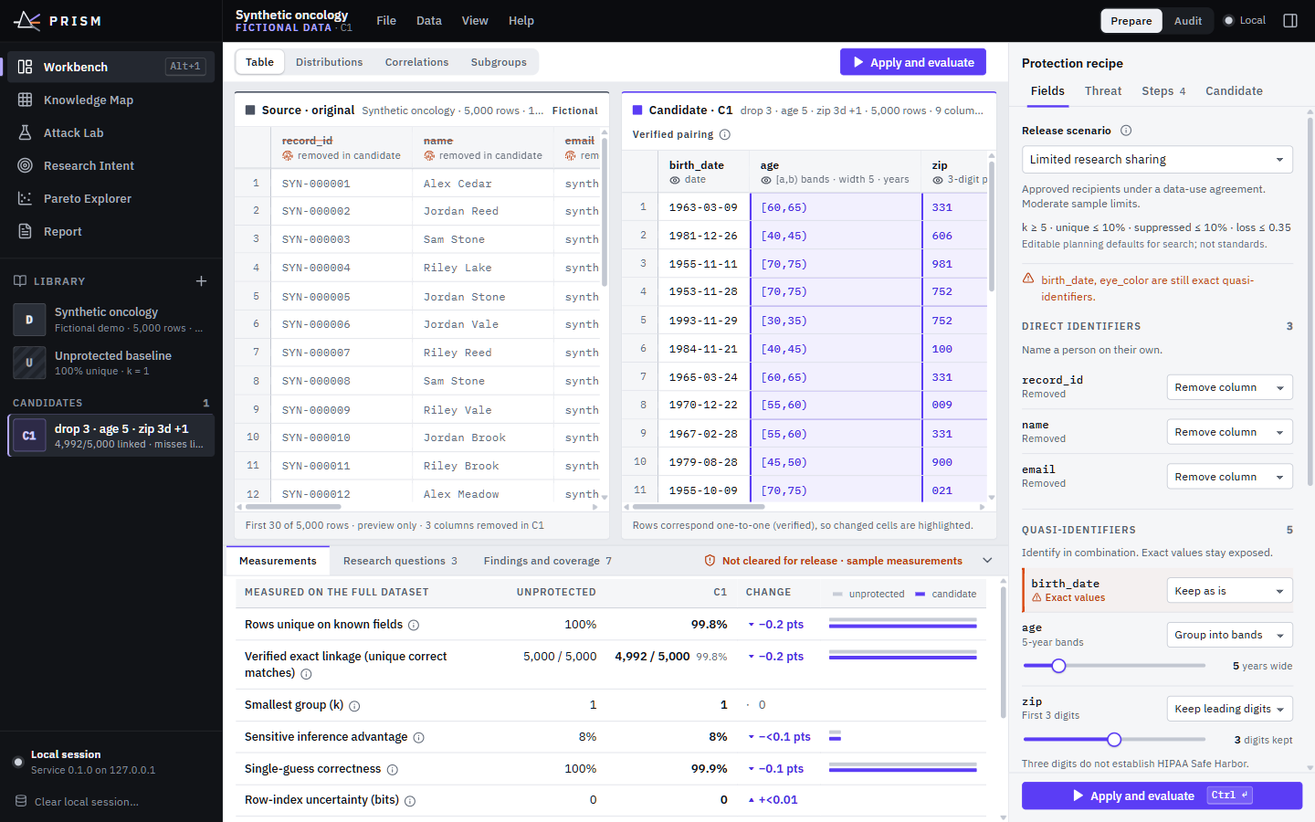
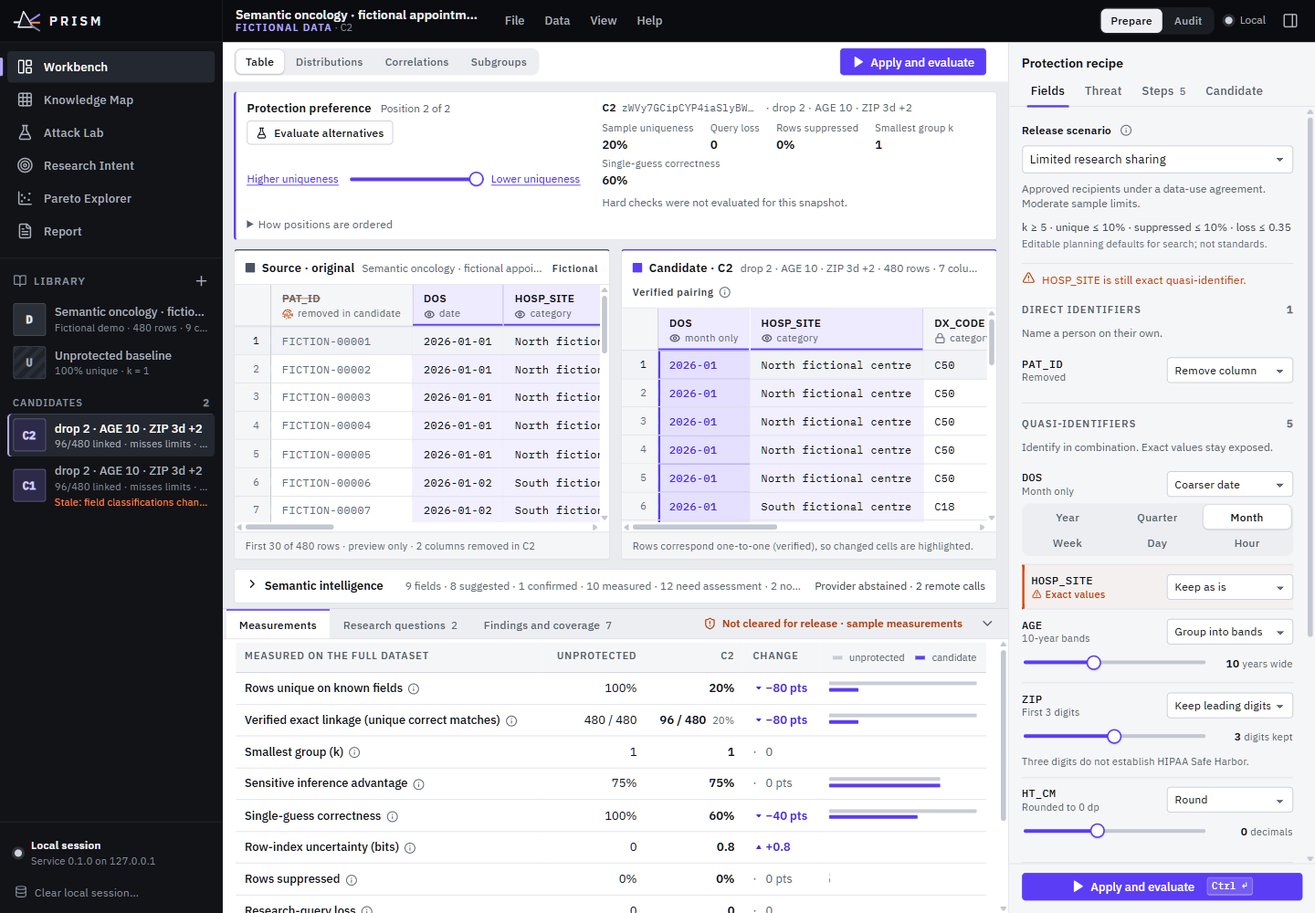
Publish verified Archie release, independent approvals and saved submission handoff

diff --git a/docs/LOCAL_PACKAGE_VERIFICATION.md b/docs/LOCAL_PACKAGE_VERIFICATION.md
@@ -1,62 +1,64 @@
-# Local package verification
+# Final local package verification
 
-Verified on 2026-10-17 at approximately 15:02 Eastern using the wheel and source ZIP built at 14:56. This records a working package checkpoint; final screenshots, report exports, submission copy, and subsequent frontend changes still require rebuilding the release artifacts.
+Verified on October 17, 2026 at approximately 16:32 Eastern, after the application freeze at `9f40ec1` and immutable Archie release `r20261017e` at `7759f22`. The frontend production build and `scripts/package.py` completed successfully. The wheel below contains the final application, semantic engine, intake adapters, current frontend, pitch and bundled fictional fixtures.
 
 ## Installed wheel
 
-The wheel installed successfully without dependency downloads into a new target outside the editable backend tree:
+| Artifact | Value |
+| --- | --- |
+| Filename | `prism_local_workbench-0.1.0-py3-none-any.whl` |
+| Size | 2,561,779 bytes |
[1 lines of base64/hex data omitted]
+| Python | 3.11.15 |
+| Package version | 0.1.0 |
+
+The wheel installed without dependency downloads into a new directory outside the editable backend:
 
 ```powershell
-.\.venv\Scripts\python.exe -m pip install --no-deps --target artifacts/wheel-smoke/20261017-150123/installed dist/prism_local_workbench-0.1.0-py3-none-any.whl
+.\.venv\Scripts\python.exe -m pip install --no-deps --target artifacts/wheel-smoke/20261017-final-e/installed dist/prism_local_workbench-0.1.0-py3-none-any.whl
 ```
 
-The smoke script ran from `artifacts/wheel-smoke/20261017-150123/`, using the existing Python 3.11.15 virtual environment with `-I` and explicitly prepending only the installed package target. It asserted that `app.__file__` resolved inside `installed/app/`, rather than the editable `backend/app/` tree. Existing dependencies supplied the runtime; this was not a fresh dependency installation.
+The smoke script ran with Python `-I`, with its working directory at `artifacts/wheel-smoke/20261017-final-e/`. It explicitly prepended the installed target and asserted that `app.__file__` resolved to `installed/app/__init__.py`, outside `backend/`. Existing virtual-environment dependencies supplied the runtime; this was **not a fresh dependency installation**. Remote Jev execution was disabled for the smoke check, and no model calls were made.
 
-`TestClient` used the allowed loopback origin `http://127.0.0.1:8000`. All checks below passed against the installed wheel:
+All checks used `TestClient` against the allowed loopback origin, `http://127.0.0.1:8000`:
 
-| Route | Result |
+| Check | Result |
 | --- | --- |
 | `/health` | HTTP 200; package version 0.1.0 |
-| `/` | HTTP 200; production frontend HTML |
-| HTML-referenced `/assets/index-EgU1iSKI.js` | HTTP 200; 349,305 bytes |
-| HTML-referenced `/assets/index-sAhFYr1D.css` | HTTP 200; 56,281 bytes |
-| `/pitch/` | HTTP 200; HTML deck |
-| `/pitch/PRISM-Pitch.pdf` | HTTP 200; 52,264 bytes; valid PDF header |
-| `/v1/demo?fixture=kit` | HTTP 200; 480 records and 9 schema fields |
-| `/v1/registry` | HTTP 200; 26 threat families and 17 protection entries |
+| `/` | HTTP 200; production HTML, 1,760 bytes |
+| HTML-referenced `/assets/index-BUB_Zi3l.js` | HTTP 200; 360,453 bytes |
+| HTML-referenced `/assets/index-DyXvwGmB.css` | HTTP 200; 57,005 bytes |
+| `/pitch/` | HTTP 200; revised semantic pitch |
+| `/pitch/PRISM-Pitch.pdf` | HTTP 200; 76,959 bytes; PDF header, seven page objects, canonical Archie demo annotation |
+| `/v1/demo?fixture=kit` | 480 fictional records and nine schema fields |
+| `/v1/registry` | 26 threat families and 17 protection entries |
+| `/v1/semantics/ontology` | 145 types, 13 families and 24 semantic attack categories |
+| Semantic fixture | 480 fictional records; initial classification made zero provider calls |
+| Default semantic candidate | 96 combination-unique rows; selected diagnosis-response query error zero |
+| Candidate provenance | 64-character hexadecimal recipe hash retained in evidence JSON |
+| Semantic evidence JSON | HTTP 200; 340,909 bytes; no literal fictional source record identifier |
+| JSON record-array intake | Two imported rows |
+| XLSX intake | Two imported rows using existing openpyxl 3.1.5 |
 
-The installed package also contains the fictional benchmark CSV, bundled catalog JSON, and complete frontend runtime license notices. The run emitted the existing Starlette warning that its `httpx` TestClient integration is deprecated; the checks passed.
[1 lines of base64/hex data omitted]
 
-Reproduction script and machine-readable results are retained locally in `artifacts/wheel-smoke/20261017-150123/verify.py` and `verification.json`. These machine-specific smoke artifacts are excluded from the source release.
+The installed wheel also contains the fictional benchmark CSV, catalog JSON, ontology JSON, Jev adapter and complete frontend runtime license notices. The run emitted the existing Starlette warning that its `httpx` TestClient integration is deprecated; all checks passed.
 
-## Source ZIP
+The reproduction script and machine-readable receipt are retained locally at `artifacts/wheel-smoke/20261017-final-e/verify.py` and `verification.json`. These machine-specific files and the installed smoke target are excluded from the source release.
 
-`dist/PRISM-workbench.zip` passed ZIP CRC validation. Its 344 members include all 24 checked release paths, including:
+## Source handoff inventory
 
-- Backend source, pinned dependency lock, bundled static app and benchmark/catalog fixtures.
-- Frontend source, dependency manifest and lock, and the production build.
-- `api/index.py`, `pitch/render.mjs`, the web deck and PDF.
-- `Dockerfile`, `.dockerignore`, `.vercelignore`, `vercel.json`, and root `requirements.txt`.
-- `setup.ps1`, `start.ps1`, README, implementation contract, license and attribution files, and the wheel under `PRISM/dist/`.
+The package-time `dist/PRISM-workbench.zip` checkpoint was 10,520,408 bytes with 794 members. Its CRC check passed. All 38 required release paths were present, including:
 
-No archive member had a conventional `.env` filename, private credential path or key filename, machine credential directory, `node_modules`, virtual environment, Git state, logs, or JSONL transcript. A bounded content scan found no recognized GitHub token, AWS access-key identifier, Anthropic API-key, or private-key signature. This is a release-content check, not a general security certification.
+- Backend source, pinned requirements, production static app, benchmark and catalog fixtures.
+- Semantic ontology, Jev adapter, deterministic rule engine, structured intake and integration tests.
+- Frontend source, manifests and lockfile, production build, web pitch and portable PDF.
+- Both Archie deployment adapters: the published static HTML entry/build utility and the alternative Next.js source/lockfile/regeneration utility.
+- All 39 assets for immutable Archie revision `r20261017e`; the static entry references that revision.
+- API entry, deployment configuration, local setup/start scripts, license/attribution material, documentation and the tested wheel.
 
-The following planned review artifacts were absent at this checkpoint and must be generated before rebuilding the final handoff ZIP:
+The inventory excluded conventional environment files, credential directories, private key filenames, caches, logs, transcripts, Git state, `node_modules`, virtual environments, `.next`, `.hosting-root`, private pitch renders and generated duplicate Next.js assets. A bounded content check found no recognized OpenRouter/GitHub/Anthropic credential, AWS key identifier or private-key signature. This is a release-content check, not a general security certification.
 
-- `artifacts/prism-workbench-1440.png`
-- `artifacts/prism-workbench-768.png`
-- `artifacts/prism-workbench-390.png`
-- `artifacts/default-report.json`
+The release owner refreshes the source ZIP from the same `source_paths()` inventory after final documentation, screenshots and submission-draft evidence are complete. That refresh reuses the **tested wheel above**. Source ZIP checksums belong in the external release receipt or checksum file; embedding a ZIP's own final hash inside a document contained by that ZIP would be circular. The package-time ZIP hash is retained in the ignored machine-readable receipt rather than represented here as the final handoff hash.
 
-The archive already included `artifacts/DELIVERY_STATUS.json`, `artifacts/verification.md`, and `artifacts/alternative-report.json`; their final metadata may still change.
-
-The later source-inventory update includes `deploy/archie/` source, lockfile and regeneration instructions. Its `.next`, `node_modules`, generated `.hosting-root/` staging directory, and generated `content/` and `public/` assets are excluded. The archive's existing `frontend/dist/` plus `node deploy/archie/scripts/sync-vite.mjs` recreates the adapter's assets after extraction. This is an inventory change only: the earlier archive hashes and wheel smoke above do not verify the final adapter-hosted release. A final package rebuild and archive check remain pending after the frontend freezes.
-
-## Checkpoint hashes and scope
-
-| Artifact | SHA-256 |
-| --- | --- |
[2 lines of base64/hex data omitted]
-
-These hashes identify only the tested checkpoint. This smoke check establishes that the packaged local frontend, pitch assets, and fixture/catalog backend routes are available from the installed wheel. It does not replace browser interaction checks, hosted deployment verification, or the final release rebuild.
+This verification establishes installed-package execution and release inventory. It does not replace the separate hosted browser checks, semantic provider verification or full backend suite recorded by the release owner.

diff --git a/docs/RELEASE_CHECKLIST.md b/docs/RELEASE_CHECKLIST.md
@@ -1,21 +1,24 @@
 # PRISM release checklist
 
-This is the final-work checkpoint, not a claim that every release task is finished. The owner maintains [delivery status](../artifacts/DELIVERY_STATUS.json) and [verification evidence](../artifacts/verification.md) as work completes.
+Application source is frozen at `9f40ec1`; immutable Archie release `r20261017e` is tracked at `7759f22`. The owner directly accepted the public `e` workflow and observed the refreshed hackathon draft's **Draft saved!** confirmation. [Delivery status](../artifacts/DELIVERY_STATUS.json) and [verification evidence](../artifacts/verification.md) record the final source-ZIP/publication handoff.
 
 | Item | Current state / required completion |
 | --- | --- |
 | Track | **Enterprise AI — AI safety, trust and governance.** No prescribed Enterprise dataset brief; fictional oncology is an example, not a sponsored healthcare entry. |
-| Public repository | [coldshalamov/PRISM](https://github.com/coldshalamov/PRISM) exists and source is published. Push the final reviewed source and docs after integration; confirm the resulting remote commit. |
-| Canonical demo | [prism-healthcare-taupe.vercel.app](https://prism-healthcare-taupe.vercel.app/). The legacy hostname does not determine the track. Deployed fixture calculations reproduced 75 then 20 correct matches. Final frontend deployment and browser acceptance remain to be confirmed. |
-| Current topology | Archie Core Postgres/GraphQL stores isolated fictional-session replay configuration; Vercel serves the frontend and executes deterministic Python. No runtime generative model calls. |
-| Archie frontend hosting | Source-preserving Next adapter exists at `deploy/archie/`; actual Archie repository import, public hosting and HTTPS acceptance are **pending**. Keep the canonical working hybrid URL until an Archie-hosted URL is verified. Do not use the unfinished generated prototype as the demo. |
-| Frontend implementation | All six views and Sonnet polish implemented. OpenCode Go `gemini-4-argon-contributor` completed its audit/improvement pass. Final integration and required **three successive independent design approvals remain pending**; record actual verdicts and fix material findings. |
-| Functional verification | 120 backend tests and nine later focused hosted/health checks passed. Local six-view route, real 24-candidate search/six frontier points, adoption, stale workload and four export formats passed. Recheck the final deployed frontend after integration. |
-| Pitch | [Web deck](https://prism-healthcare-taupe.vercel.app/pitch/) and [PDF](https://prism-healthcare-taupe.vercel.app/pitch/PRISM-Pitch.pdf) exist. Ensure the final build retains the Enterprise AI copy, exact working URLs and license files. |
-| Screenshots and evidence | Capture final actual deployed screens, including responsive review images. Refresh the default/alternative evidence exports and verification metadata before packaging and form upload. |
-| Local release | Installed-wheel/static/fixture/catalog smoke passed at the earlier checkpoint. Rebuild the final wheel and source ZIP after all frontend, pitch, deployment-adapter and metadata changes; include the Archie adapter source. See [LOCAL_PACKAGE_VERIFICATION.md](LOCAL_PACKAGE_VERIFICATION.md). |
+| Public repository | [coldshalamov/PRISM](https://github.com/coldshalamov/PRISM) is public. Frozen source and immutable `e` assets are pushed. Final documentation, media and review reports are published with the source; the owner verifies the exact remote commit before handoff. |
+| Canonical demo | [PRISM on Archie](https://41d0bdfd-0065-4b0b-a973-efbe1c1a9c5e.archie.site/). The reviewed app replaces the generated prototype's entry. Archie reported Published; the actual public DOM loaded `r20261017e/index-BR81gbXs.js`. All six views and the final semantic/search/export workflow passed, with no captured public console errors. |
+| Current topology | Archie serves the public HTML entry; Archie Core PostgreSQL/GraphQL stores bounded fictional-session configuration. Vercel serves immutable UI assets and Python compute. Optional OpenRouter Jev 1.14 interprets approved schema metadata; scientific calculations remain deterministic. This is a split deployment. |
+| Archie reconciliation | Useful old-source ideas were mined and documented in [ARCHIE_RECONCILIATION.md](ARCHIE_RECONCILIATION.md). The real entry uses the tracked static adapter. Archie GitHub sync remains unavailable; the manual code-editor/publish path is documented. The Next.js adapter is an alternative source artifact, not the live host. |
+| Frontend implementation | All six views and the integrated semantic workbench are implemented. Sonnet 5.5 XHigh completed frontend work; Gemini 4 Argon through OpenCode Go completed its improvement passes and the three final findings were repaired. **Three fresh successive independent approvals** cover source `9f40ec1`; see [frontend review record](frontend-reviews/README.md). |
+| Functional verification | **157 integrated backend tests passed**, followed by nine focused overlapping semantic/alternative checks; these counts are not added together. Local checks cover preview/source preservation, stale guards, all-field highlights, snapshot restoration and external-audit recovery. Final public `e` checks cover all six views, correction/reassessment, eight evaluated alternatives, adoption/restoration and actual JSON/CSV downloads. Earlier public checks cover the 75-to-20 benchmark, 24-candidate search and all four export formats. |
+| Semantic evidence | 145 ontology types across 13 families; 24 semantic attack categories with explicit tested/unsupported states. On public `e`, the fictional appointment candidate measured 96/480 combination-unique rows and zero selected query loss. Confirming DOS as encounter date made the previous result stale and blocked export until reassessment, which retained 96/480. Actual public Jev returned `stage → disease_stage` at 86% interpretation probability through served model `typesafe/jev-1.14-20261014`, with two requests; this is not a privacy-risk probability. |
+| Pitch | [Web deck](https://prism-healthcare-taupe.vercel.app/pitch/) and [seven-page PDF](https://prism-healthcare-taupe.vercel.app/pitch/PRISM-Pitch.pdf) describe optional runtime Jev and deterministic testing. The 75-to-20 verified-linkage chart remains distinct from the appointment fixture's sample-uniqueness result. Changed PDF pages were rendered and visually checked. Submission description is 972 characters. |
+| Screenshots and evidence | Desktop/tablet/phone semantic images and expanded findings were inspected by all three reviewers. Three actual public revision `e` screenshots are captured under `docs/screenshots/` and visible in the saved submission draft. Final public JSON contains all 24 category records, confirmed DOS meaning and the recipe hash; the protected CSV has 480 rows and seven fields, without PAT_ID or NOTES. |
+| Local release | Final wheel build and independent installed-target smoke passed: current HTML/JS/CSS, seven-page PDF, fixtures, registries, 96-row semantic result, recipe identity, JSON and XLSX intake. Package-time ZIP CRC/inventory passed. The final source ZIP refresh includes the final docs/media and the same tested wheel; release checksums accompany the downloads. See [LOCAL_PACKAGE_VERIFICATION.md](LOCAL_PACKAGE_VERIFICATION.md). |
 | Disclosures | README identifies supplied background material and successful development AI tools; notices retain kit Apache attribution and runtime font/dependency licenses. Preserve those disclosures. See [HACKATHON_REQUIREMENTS.md](HACKATHON_REQUIREMENTS.md). |
-| Submission draft | Enterprise AI and project text/URLs have been entered. Final screenshot upload, **Save Draft**, and verification of saved fields/links are **pending**. Use [SUBMISSION_COPY.md](SUBMISSION_COPY.md) and the actual verified deployment URLs. |
+| Submission draft | **Draft saved!** was directly observed after saving Enterprise AI, PRISM, the refreshed 972-character Jev description, canonical Archie demo/GitHub/pitch URLs, updated technology stack and three actual public screenshots. The saved-draft screenshot is retained locally at `artifacts/submission-draft.png`. **Submit Project was never clicked.** |
 | Submission authority | **Do not click Submit Project.** Leave a saved draft for the user's review; submission requires the user's explicit instruction. |
 
-The public demo permits only the two fictional fixtures and rejects file intake. Private CSVs and external-file audits run in the loopback application. Candidate constraints, frontier membership and completed reviews never constitute release clearance, clinical validation or compliance certification.
+The public demo permits three bundled fictional fixtures and rejects file intake. Local CSV, JSON and single-visible-worksheet XLSX intake and external-file audits run in the loopback application. Remote metadata interpretation requires explicit permission; original record cells are not sent to Jev. Candidate constraints, frontier membership and completed reviews never constitute release clearance, clinical validation or compliance certification. The semantic-table scroll-region focus outline remains a documented non-blocking accessibility refinement.
+
+The final public appointment search evaluated eight recipes in 11 attempts, with six nondominated candidates and one meeting the selected hard checks. Selecting S5 showed 0% sample uniqueness, query loss 0.15 and minimum group size 20; restoring C2 returned the measured 96/480 candidate. These are bounded evaluated results, separate from the earlier 24-candidate architecture search and the kit's 75-to-20 verified-linkage comparison.

diff --git a/docs/frontend-reviews/semantic-review-3.md b/docs/frontend-reviews/semantic-review-3.md
@@ -1,0 +1,30 @@
+# Semantic extension: independent frontend review 3
+
+**Disposition: APPROVED.** No material design, responsiveness or workflow blocker was found in this scope. This completes the third fresh, successive review of the semantic extension, following semantic-review-1 and semantic-review-2.
+
+Reviewed frozen application source: **`9f40ec12e0178d4eabe4c9bc2663ceb0938c861d`**. The working frontend source was confirmed unchanged from that freeze. Only this report was written by the reviewer.
+
+## Independent pixel and source review
+
+Inspected the actual desktop, tablet and phone images `artifacts/semantic-workbench-1440.png`, `semantic-workbench-768.png`, `semantic-workbench-390.png`, and the expanded `semantic-findings-1440.png` image. The findings image precedes the date-control wrap repair; the current desktop image shows the repaired two-row control. Read SemanticPanel, DataTable, Workbench, workspace snapshot selection/export guards, stale-evidence analysis and the relevant styles.
+
+The workbench has the density and continuity of a working instrument. The persistent dark shell, small document-style controls, comparable table panes, recipe inspector and measurement ledger have distinct jobs. The extension retains that structure: semantic interpretation is a disclosure within the existing work, and evaluated alternatives are a compact selection control rather than another dashboard. Meaningful field information, correction, provenance and measured findings fill the disclosure with useful actions.
+
+The current desktop image preserves simultaneous access to source, candidate, recipe and measurements. At tablet width the toolbar wraps and the main content expands; the explicit pane controls retain access to both tables. The phone image keeps an intelligible preference summary and persistent bottom navigation, with table content scrolling within its region. Dense tables retain usable column widths. No material outer overflow or hidden primary action appears in these images.
+
+## Interaction and recovery judgment
+
+- Source values, immediate draft values and frozen measurements are clearly separated. Draft changes announce that full assessment is pending. Unsupported previews explicitly retain the previous values instead of presenting a partial transformation as complete.
+- Semantic interpretation distinguishes source/model, probability, review status, meaning and statistical role. The complete native correction selector is usable without a custom menu. Provider abstention, failed inspection, absent findings, missing ontology and unmet prerequisites have explicit explanations or next actions.
+- The final correction repair clears unconfirmed drafts after a successful fresh inspection. Malformed field/finding records are normalized before rendering. Neither model confidence nor missing findings is presented as a privacy pass.
+- Findings expose the contributing fields, attacker knowledge, actual measurement, mitigations and utility costs. Selecting a finding shares its field highlight across the two tables. Severity and coverage also have text and icons.
+- Protection preference selects actual evaluated snapshots, discloses ordering and excluded results, and shows query cost separately from uniqueness. An external audit outside the scale has an explicit recovery action. Selecting an endpoint restores the stored recipe even when that candidate is already selected.
+- Export is guarded against stale classifications, recipe, assumptions and workload, unsaved research questions, an expired session and concurrent operations. CSV export routes through the acknowledgment flow. Snapshot selection warns when it replaces unevaluated recipe edits.
+
+Native action controls, labeled selects/range inputs, disclosure state, semantic table headings, async status announcements, reduced-motion rules and bottom-navigation safe-area padding are present. The release owner's existing direct browser observations cover the 480-row route, real Jev abstention, confirmed correction and reassessment, AGE draft preview, source preservation, stale export blocking, all contributing-column highlights, unpaired-audit exclusion and snapshot restoration. Those observations were considered without duplicating the route or backend suite; the owner is separately verifying the final public deployment.
+
+## Non-blocking follow-up and limits
+
+`frontend/src/views/workbench/semantic-panel.css:61` — the focusable semantic-table scroll region removes its outline without a matching region-level `:focus-visible` replacement. Native controls inside the region retain their focus styles. Add a visible region outline in a future accessibility pass; this does not prevent the reviewed workflow from being used and does not block this release.
+
+Reviewed with the current [Web Interface Guidelines](https://raw.githubusercontent.com/vercel-labs/web-interface-guidelines/main/command.md). This is a practical, scoped maturity approval, not universal optimality, exhaustive device coverage or formal WCAG certification. Public deployment behavior remains the release owner's direct acceptance check.

diff --git a/artifacts/verification.md b/artifacts/verification.md
@@ -43,3 +43,23 @@ Actual local semantic workbench: 480 fictional records, source uniqueness480/480
 The actual local unpaired audit imported `examples/semantic_benchmark/external_protected.csv`:480rows,6fields,0%sampleuniqueness,k20,verifiedlinkageNotApplicable,queryloss0.15(responseerror0; heightmeanerror1.2cm). Rows were explicitly independent; no correspondence or generating mechanism was inferred. Source CSV/JSON/XLSX acceptance files and measured report are committed with the fixture package.
 
 The previous three frontend approvals apply to c5404fd/revisiond only. The semantic extension receives new approvals after Gemini's concrete edge-case repairs. Final public revision, downloads, screenshots, package and saved submission updates will be recorded below after execution.
+
+
+## Final published semantic release — r20261017e
+
+Archie reported **Published** and the actual public page loaded `archie-assets/r20261017e/assets/index-BR81gbXs.js` from the Vercel asset origin. The old Archie runtime entry is replaced; the additional Archie-generated script is only its build polyfill. The app origin remains the canonical Archie URL.
+
+The fresh public browser actually invoked Jev on the architecture fixture. `stage` became **Disease stage**, probability **86%**, served model `typesafe/jev-1.14-20261014`, provider status `ok`, two remote calls. The semantic ambiguity button then loaded the separate 480-row, nine-field appointment fixture. Its reviewed first candidate measured 96 unique rows and query loss zero. Confirming DOS as encounter date persisted a user correction, marked C1 stale and blocked export; reassessing produced C2 with the same 96/480 result and zero query loss.
+
+**Evaluate alternatives** ran eight real evaluations, 11 recipe attempts, six nondominated results and one result meeting the returned hard checks. These counts describe this finite search, not a guarantee of the globally best recipe. Protection preference selected actual S5 (0% sample uniqueness, query loss0.15, k20), and restoring C2 restored its exact recipe and 20% sample uniqueness. No model interpretation was requested by those actions. All six public views rendered; the Attack Lab returned four actual fixed computations and Research Intent displayed both selected questions within tolerance.
+
[1 lines of base64/hex data omitted]
+
+Actual deployed screenshots are tracked under `docs/screenshots/`; the responsive local source images reviewed by all three agents are tracked as `artifacts/prism-workbench-{1440,768,390}.png`. Three fresh independent reviews of frozen source9f40ec1 approved successively; their reports are under `docs/frontend-reviews/semantic-review-{1,2,3}.md`. The remaining non-blocking scroll-region outline issue is disclosed in review3. These are scoped design approvals, not universal optimality or formal accessibility certification.
+
+
+## Final package and submission handoff
+
[1 lines of base64/hex data omitted]
+
+The eMerge form visibly confirmed **Draft saved!** with Enterprise AI, PRISM, the current972-character Jev/semantic description, canonical Archie demo, public GitHub repository, live pitch URL, updated technology stack and three uploaded screenshots. The actual form still exposes **Submit Project**, which was never clicked. The completed form screenshot is retained locally as ignored `artifacts/submission-draft.png`. The live app and form tabs were marked as deliverables for user review.

diff --git a/docs/frontend-reviews/semantic-review-2.md b/docs/frontend-reviews/semantic-review-2.md
@@ -1,0 +1,26 @@
+# Semantic extension: independent frontend review 2
+
+**Disposition: APPROVED.** No material design or interaction defect remains in the reviewed scope.
+
+Reviewed frozen application source: **`9f40ec12e0178d4eabe4c9bc2663ceb0938c861d`**. This is the second fresh, successive review of the semantic extension after semantic-review-1 approved that source. It does not reuse the older, pre-extension approval sequence.
+
+## Design and responsive inspection
+
+Independently inspected the actual `artifacts/semantic-workbench-1440.png`, `semantic-workbench-768.png`, `semantic-workbench-390.png` and `semantic-findings-1440.png` images, plus Workbench, SemanticPanel, DataTable, workspace state, stale-evidence logic and their styles. The findings image precedes the date-control wrap repair; the later desktop workbench image shows the corrected two-row control.
+
+The extension belongs to the existing instrument: persistent graphite navigation, compact typography, paired source/candidate tables, violet selection and orange exposure warnings. Semantic interpretation occupies a disclosure within the workflow rather than introducing a separate chat or a generic dashboard. Its substantive field details, correction controls, measured findings and coverage gaps provide useful next actions; empty and unavailable states explain how to proceed.
+
+At 1440 px the source, candidate, recipe controls and measurements can be compared together. At 768 px the toolbar wraps and the working column expands, while Source/Candidate controls preserve access to both panes. At 390 px the preference control, metrics and actions reflow without compressing the table into unreadable columns; table scrolling is contained and the bottom navigation remains available. Dense tables use deliberate horizontal scrolling. No material clipping or obscured primary action appears in the reviewed current-layout images.
+
+## Interaction and evidence clarity
+
+- Native buttons, selects, range inputs, semantic tables and keyboard-operable tabs carry accessible names. Disclosures expose expanded state, column selection exposes pressed state, async interpretation announces status, and shared focus/reduced-motion styles remain present.
+- Model probability, semantic meaning, statistical role and measured privacy results have separate labels. Confirmation explicitly preserves the source values and reviewed statistical role. Measured, Needs Assessment and Not applicable findings are distinguished by text and icons, not color alone.
+- Expanded findings explain contributing fields, attacker prerequisites, the actual measurement, mitigations and analytical costs. Selecting a finding highlights its contributing columns in both table panes; choosing an individual field returns to a focused selection.
+- Protection preference uses finite, evaluated snapshots under the current assumptions. It shows measured uniqueness, query loss, suppression and minimum k, discloses ordering and exclusions, and explicitly avoids interpolating a protection percentage. An excluded external audit has a clear Select first snapshot recovery action.
+- Selecting an existing snapshot restores its exact recipe even if that candidate is already active. Immediate draft values are labeled preview-only and assessment pending. Measurements remain attached to the frozen snapshot, stale semantic findings are labeled historical, and current-control differences block export until reevaluation or restoration.
+- A successful fresh semantic inspection clears unconfirmed local corrections. Malformed service records are normalized before rendering; missing probabilities and unavailable ontology choices have explicit fallback states.
+
+The release owner supplied direct live checks of the real 480-row workflow, Jev abstention followed by user confirmation and reassessment, AGE 10→11 draft preview, unchanged source, stale export protection, five-column highlighting in both panes, cached baseline/candidate selection, unpaired external-audit exclusion and the three final Gemini repairs. Those observations were not duplicated in this source-and-pixel review. No extra test or implementation change was needed.
+
+Reviewed against the current [Web Interface Guidelines](https://raw.githubusercontent.com/vercel-labs/web-interface-guidelines/main/command.md) and the user's request for a mature, cohesive working tool. This approval is scoped to the inspected extension and evidence; it is not a claim of global optimality or formal accessibility certification.

diff --git a/docs/frontend-reviews/README.md b/docs/frontend-reviews/README.md
@@ -1,19 +1,21 @@
 # Final frontend review record
 
-The final approval sequence is **reviewer 2's recheck → reviewer 4 → reviewer 5**,
-all against frozen frontend source `c5404fd` and Archie entry revision
-`r20261017d`. Each returned **APPROVED** independently. This satisfies the
-requested three successive scoped design approvals; it is not a claim of
-global optimality or formal accessibility certification.
+The final semantic-extension approval sequence is **semantic review 1 → semantic review 2 → semantic review 3**. All three independently returned **APPROVED** against frozen application source `9f40ec12e0178d4eabe4c9bc2663ceb0938c861d`. The corresponding immutable Archie entry is `r20261017e`; compiling the deployment entry does not change the reviewed source.
 
-Earlier reviews requested changes. Their material findings were corrected:
-stable editor focus during unsaved changes, explicit external-file preview
-order rather than inferred positional pairing, and unknown frozen membership
-metadata rather than a default known-membership assumption. The real local
-reversed 480-row audit showed verified owner correspondence, zero changed-cell
-highlights and the corrected preview-order explanation.
+| Review | Disposition | Record |
+| --- | --- | --- |
+| Semantic extension 1 | APPROVED after the final repair-source check | [semantic-review-1.md](semantic-review-1.md) |
+| Semantic extension 2 | APPROVED on the same freeze | [semantic-review-2.md](semantic-review-2.md) |
+| Semantic extension 3 | APPROVED on the same freeze | [semantic-review-3.md](semantic-review-3.md) |
 
-The controller's actual browser/API checks are recorded separately in
-`artifacts/verification.md`. Reviewer agreement and compile checks do not
-replace that functional verification. The two deployment-only revision changes
-preserve the six-view design inspected in the supplied responsive screenshots.
+The fresh sequence covers the existing six-view instrument plus semantic field interpretation, controlled corrections, provider consent/provenance, measured semantic findings, contributing-field highlights, immediate draft preview, evaluated protection preference and extended field/date controls. Reviewers inspected the actual 1440, 768 and 390-pixel workbench images, expanded findings, relevant source and the controller's targeted live observations.
+
+Claude Sonnet 5.5 XHigh built the frontend and semantic extension through Devin. Gemini 4 Argon, through the authenticated OpenCode Go provider, completed the requested audit/improvement passes. Its final three material findings were repaired before approval: malformed semantic-record handling, unindexed preference positions and same-snapshot recipe restoration, and unconfirmed correction drafts surviving a successful fresh inspection. The controller directly checked the repairs.
+
+The third review records one non-blocking follow-up: the focusable semantic-table scroll region removes its outline without a matching region-level `:focus-visible` style. Inner controls retain their focus indicators. This remains a future accessibility refinement and did not block the reviewed workflows.
+
+## Earlier build
+
+The pre-extension sequence, **reviewer 2's recheck → reviewer 4 → reviewer 5**, approved source `c5404fd` and Archie entry `r20261017d`. Those historical approvals were **not reused** to approve the semantic extension. Earlier findings about editor focus, external-file preview order and unknown frozen membership were corrected. A real reversed 480-row audit retained verified owner correspondence, zero positional changed-cell highlights and an explicit file-order explanation.
+
+The controller's browser/API checks and deployment acceptance are recorded separately in [verification evidence](../../artifacts/verification.md). Scoped reviewer approval does not replace a working deployed route. These reviews satisfy the requested three successive design approvals; they do not establish global optimality, exhaustive device coverage or formal WCAG certification.

diff --git a/docs/RELEASE_NOTES.md b/docs/RELEASE_NOTES.md
@@ -1,0 +1,19 @@
+# PRISM 0.1.0
+
+PRISM compares source tables with transformed candidates before enterprise research sharing. The six-view workbench connects field meaning, deterministic disclosure measurements, selected research questions, bounded recipe search and reproducible evidence.
+
+- Review 145 semantic types across 13 families, with optional Jev 1.14 interpretation of approved schema metadata through OpenRouter Decisions. Record cells are excluded from model requests. Human corrections retain provenance.
+- Compare the original and protected table, preview compatible edits immediately, then explicitly evaluate the complete dataset. Frozen evidence becomes stale when its inputs change.
+- Explore 24 semantic attack categories with measured, unsupported and inapplicable states; inspect the contributing fields, attacker prerequisites and utility costs.
+- Select actual evaluated alternatives, inspect the measured frontier and export evidence, a recipe or an acknowledged protected CSV.
+- Run private CSV, JSON and XLSX intake locally. The public demo uses fictional fixtures and blocks uploads.
+
+The public application entry and durable fictional state are hosted on Archie. Immutable frontend assets and Python compute are served by Vercel. This is a split deployment; automatic Archie GitHub synchronization is unavailable. The tracked static entry supports manual publication without replacing the reviewed application with a generated approximation.
+
+The integrated backend suite passed 157 tests. The final wheel was installed into an isolated target and exercised independently, including current UI assets, pitch, ontology, fixture calculations, provenance and structured intake. Sonnet 5.5 built the frontend extension, Gemini 4 Argon completed an improvement pass, and three successive scoped independent frontend reviews approved the frozen source. See the repository's verification record for the separate hosted browser acceptance.
+
+The wheel includes the local application and built frontend. The source ZIP includes source, documentation, fictional fixtures, deployment adapters and the same tested wheel. Use `setup.ps1` and `start.ps1` for the documented source workflow; Python dependencies are required for the wheel. Checksums accompany the release assets.
+
+This prototype provides evidence for human review. Sample uniqueness and simulated verified matches are distinct metrics; neither is a population identification probability. Unsupported analyses remain unassessed. Candidate constraints and review approvals do not provide release clearance or compliance certification.
+
+The hackathon entry is prepared as an **Enterprise AI draft**. Submission remains the user's action.

diff --git a/docs/SUBMISSION_COPY.md b/docs/SUBMISSION_COPY.md
@@ -87,7 +87,7 @@ Use actual captured screens from the deployed fictional demo. The pitch uses an 
 - Jev 1.14 supplies optional metadata interpretation through OpenRouter Decisions. Approved inputs contain labels, types, units, structural format names and neighboring labels, without record cells. Its probabilities concern field meaning; ambiguous and unsupported interpretations remain reviewable. Core scans are independent.
 - A nondominated candidate can fail user constraints. Search uses a finite grammar and can finish before the requested count on constrained inputs.
 - Unavailable results and unsupported methods do not count as zero risk. pyCANON is an optional categorical diagnostic cross-check, not privacy certification.
-- Public hosting serves fictional fixtures and blocks private-file import. Local intake supports CSV, JSON record arrays and the first XLSX worksheet, with explicit rejection of unsupported workbook constructs. Optional remote semantics still requires approved minimized metadata.
+- Public hosting serves fictional fixtures and blocks private-file import. Local intake supports CSV, JSON record arrays and one visible XLSX worksheet, with explicit rejection of unsupported workbook constructs. Optional remote semantics still requires approved minimized metadata.
 - Enterprise AI is the selected track. Runtime Jev interprets metadata; deterministic code computes privacy and utility evidence. Coding-agent use during development is separately disclosed.
 - The fictional oncology example demonstrates a general enterprise research-sharing workflow. It does not establish fit to a specific sponsored healthcare challenge or clinical validation.
 - No claim of HIPAA compliance, clinical validation, automatic release clearance or guaranteed patient protection. No claim that a numbered hackathon challenge is implemented without checking its actual requirements.

diff --git a/docs/screenshots/README.md b/docs/screenshots/README.md
@@ -1,0 +1,9 @@
+# Deployed PRISM screenshots
+
+These are actual browser captures of the canonical Archie deployment, immutable frontend revision `r20261017e`, on October17,2026. They use only invented records. The viewport was1440×1100; no interface or measurement was composited into the images.
+
+- `prism-workbench.png`: source and C2, confirmed encounter-date meaning, original/protected values, current recipe and measurement ledger. The full480-row calculation reports96 unique rows and zero selected-query loss.
+- `prism-semantic-findings.png`: the measured event/place/demographic finding with contributing fields, outside-information prerequisites and the same candidate ledger. Unavailable attack categories remain explicitly unassessed.
+- `prism-pareto.png`: eight actual evaluated recipes, six nondominated results, one result meeting returned planning checks, and selected S5. Nondominance and checks are independent. S5 is dominated in the measured objective set despite meeting the planning checks.
+
+The responsive screenshots used for independent review are separately tracked at `artifacts/prism-workbench-1440.png`, `prism-workbench-768.png` and `prism-workbench-390.png`. They depict the same frozen application source in the local workflow. The three deployed images above were uploaded to the saved Enterprise AI submission draft. No hackathon submission was sent.

diff --git a/README.md b/README.md
@@ -1,6 +1,6 @@
 # PRISM
 
-[Open the fictional demo](https://41d0bdfd-0065-4b0b-a973-efbe1c1a9c5e.archie.site/) · [Pitch deck](https://prism-healthcare-taupe.vercel.app/pitch/) · [Download pitch PDF](https://prism-healthcare-taupe.vercel.app/pitch/PRISM-Pitch.pdf)
+[Open the fictional demo](https://41d0bdfd-0065-4b0b-a973-efbe1c1a9c5e.archie.site/) · [Pitch deck](https://prism-healthcare-taupe.vercel.app/pitch/) · [Download pitch PDF](https://prism-healthcare-taupe.vercel.app/pitch/PRISM-Pitch.pdf) · [Local app and source release](https://github.com/coldshalamov/PRISM/releases/tag/v0.1.0)
 
 PRISM is a privacy preflight workbench for structured research datasets. It understands field meanings, explains measured disclosure pathways, and compares protective recipes against the research questions you need to preserve. Original and protected tables, distributions, correlations, findings and reproducible evidence stay in one connected workflow.
 

diff --git a/docs/ARCHIE_DEPLOYMENT.md b/docs/ARCHIE_DEPLOYMENT.md
@@ -86,8 +86,8 @@ need the backend. A successful build alone does not verify a usable public app.
 
 ## Rebuild and publish the static Archie entry
 
-The previously verified entry pins revision **`r20261017d`** under
-`frontend/public/archie-assets/r20261017d/`. Final semantic-release revision is recorded in the delivery status. These versioned JS, CSS and font
+The final verified semantic entry pins revision **`r20261017e`** under
+`frontend/public/archie-assets/r20261017e/`. Its public browser checks are recorded in the delivery status. These versioned JS, CSS and font
 files are public, immutable application assets, not private visitor data.
 Keep every revision still referenced by a published Archie page in Git and
 subsequent Vercel deployments.
